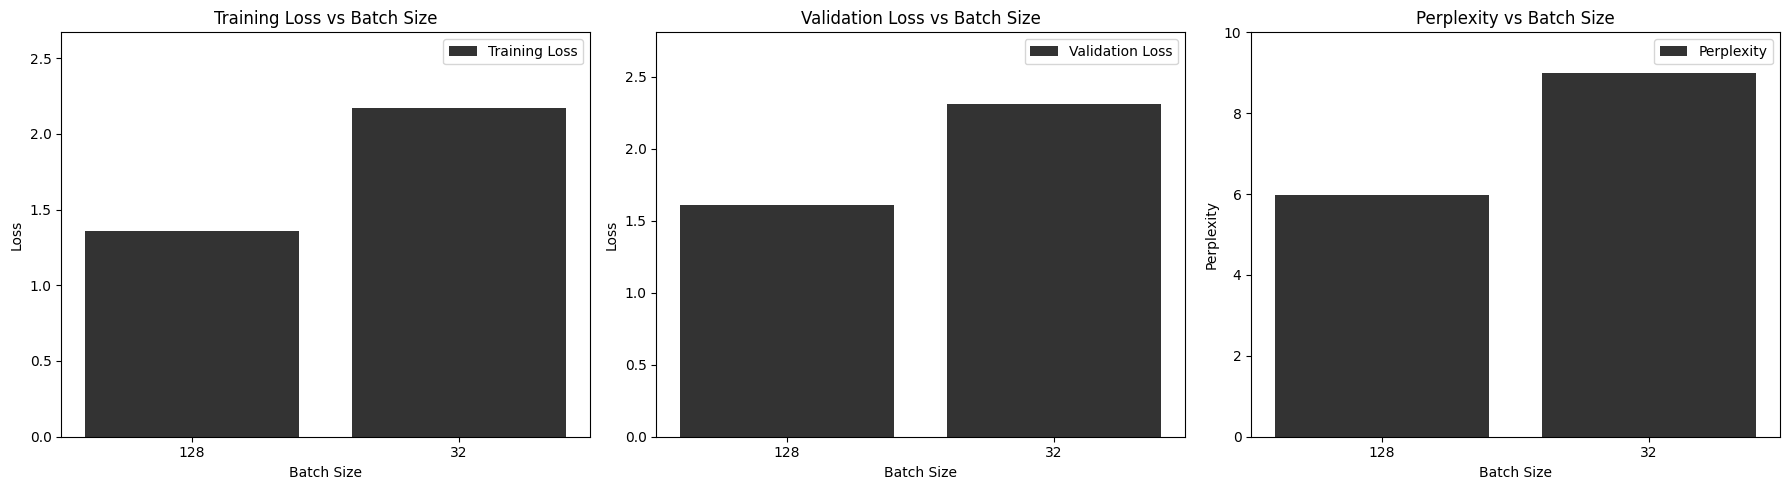
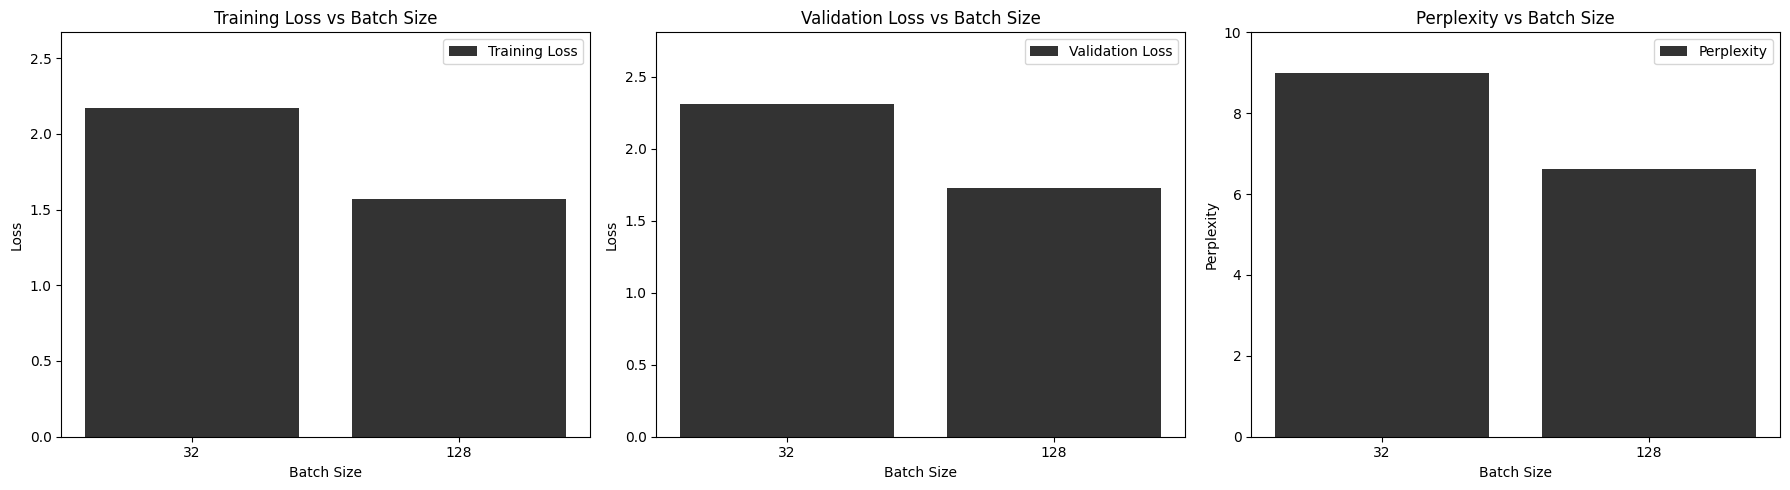
Commit

diff --git a/Documentation/experiments.md b/Documentation/experiments.md
@@ -1,7 +1,9 @@
 
-## Results and Experiments
+## **Results and Experiments**
 
-The goal of this section is to test out different parameters to find the best parameters for the model, also to see the effect of changing some of them and their effects on train, validation and test results. 
+The goal of this section is to test out different hyper-parameters to find the best parameters for the model. Those experiments also allow to see their effects on train, validation and test results. 
+
+---
 
 ### **Table of Contents**
 
@@ -15,7 +17,7 @@ The goal of this section is to test out different parameters to find the best pa
 
 ### **1. Best Parameters**
 
----
+The best val / train loss were achieved with the following:
 
 
 | **Parameter**             | **Value** |
@@ -31,6 +33,7 @@ The goal of this section is to test out different parameters to find the best pa
 | **Dropout rate**           | 0.2       |
 
 
+
 **Results at Optimal Point**
 
 - **Training Loss**: 1.22
@@ -38,14 +41,18 @@ The goal of this section is to test out different parameters to find the best pa
 - **Perplexity**: 5.52
 - **Training Time (min)**: 18  
 
+
 **Training and Validation Loss Plot**
 
-<img src="./images/results/best_param_model_1400.png" alt="Architecture Overview" width="70%">
+<img src="./images/results/best_param_model_1400.png" alt="Architecture Overview" width="60%">
 
 
 **Output generated text** The rest can be found [here](../Documentation/generated_text.txt)
 
-**Input:** "O God, O God!"
+**Input sequence**
+```
+O God, O God!
+```
 
 **Generated Text:**
 ```
@@ -70,14 +77,14 @@ Let's so return blind him your day to-day.
 
 HASTINGS:
 Good's duke much forth, as I would say take there is.
-
+...
 ```
 ---
 
 
 ### **2. Regularization Techniques**
 
-Using the following changed parameters (maximum iterations = 600), we just add gradient clipping (max_norm=1) and scheduler.
+Using the following changed parameter (maximum iterations = 600), we just add gradient clipping (max_norm=1) and scheduler.
 
 **Training and Validation Loss Plot**
 
@@ -108,10 +115,10 @@ Using the following changed parameters (maximum iterations = 600), we just add g
 
 **Loss (validation and training) plot**
 
-<img src="./images/results/6000_iters.png" alt="Architecture Overview" width="70%">
+<img src="./images/results/6000_iters.png" alt="Architecture Overview" width="60%">
 
 
-The training loss decreases steadily from **4.37** to **0.058**, showing that it fits the training data. However, the validation loss, plateaus around **1.65** before rising to **3.83**, indicating overfitting as the model begins to memorize the training data and fails to generalize. When the validation loss plateaus, it reflects the model's optimal performance for the given setup, and further training risks overfitting. Stopping at this point ensures good results and captures the essential patterns in the data. This is why we added the line that shows the optimal number of eval iterations for our model, set at 1400 iterations. The lowest training loss is 0.05, lowest validation loss 1.65, perplexity 7.08 and training time 5 hours. 
+**Results:** The training loss decreases steadily from **4.37** to **0.058**, showing that it fits the training data. However, the validation loss, plateaus around **1.65** before rising to **3.83**, indicating overfitting as the model begins to memorize the training data and fails to generalize. When the validation loss plateaus, it reflects the model's optimal performance for the given setup, and further training risks overfitting. Stopping at this point ensures good results and captures the essential patterns in the data. This is why we added the line that shows the optimal number of eval iterations for our model, set at 1400 iterations. The lowest training loss is 0.05, lowest validation loss 1.65, perplexity 7.08 and training time 5 hours. 
 
 
 ### **4. Additional Experiments**
@@ -172,18 +179,12 @@ For this experiment, results are the following:
 
 
 **Experiment 2: Batch Size** 
-
 | **Batch Size** | **Training Loss** | **Validation Loss** | **Perplexity** | **Training Time (min)** | **GC / Cluster** |
 |------------------|-------------------|---------------------|---------------|-------------------------|------------------|
-| 128              | 1.36             | 1.61                 | 5.97 ± 1.2    | 9.90                    | Cluster          |
 | 32               | 2.17             | 2.31                 | 9.00 ± 1.7         | 5.78               | Cluster          |
+| 128              | 1.57             | 1.73                 |  6.62 ± 1.3    | 10.26                  | Cluster          |
 
 <img src="./images/results/batch_size.png" alt="Architecture Overview" width="100%">
-
-**Batch Size 128**:
-
-   - Lower training loss (**1.36**) and validation loss (**1.61**) compared to batch size 32
-   - Perplexity is significantly lower (**5.97**), showing better predictive quality.
 
 
 **Batch Size 32**:
@@ -191,10 +192,15 @@ For this experiment, results are the following:
    - Higher training loss (**2.17**) and validation loss (**2.31**) 
    - Perplexity is higher (**9.00**), reflecting reduced predictive performance.
 
-**Conclusion**:
+**Batch Size 128**:
 
-- **Batch Size 128** Better balance between training loss, validation loss, and generalization
+   - Lower training loss (**1.57**) and validation loss (**1.73**) compared to batch size 32
+   - Perplexity is significantly lower (**6.62**), showing better predictive quality.
+
+
+**Conclusion**:
 - **Batch Size 32** Faster but less stable training and generalization
+- **Batch Size 128** Better balance between training loss, validation loss, and generalization
 
 ---
 
@@ -202,13 +208,13 @@ For this experiment, results are the following:
 
 | **Num Layers** | **Training Loss** | **Validation Loss** | **Perplexity** | **Training Time (min)** | **GC / Cluster** |
 |------------------|-------------------|---------------------|---------------|-------------------------|------------------|
-| 6             | 1.36             | 1.61                 | 5.97 ± 1.2    | 9.90                    | Cluster          |
+| 6              | 1.57             | 1.73                 |  6.62 ± 1.3    | 10.26                  | Cluster          |
 | 12              | 1.85             | 2.05                | 7.05  ± 1.1          | 16.36                     | Cluster  |
 
 <img src="./images/results/num_layers.png" alt="Architecture Overview" width="100%">
 
 **6 Layers**:  
-- Training loss: **1.36**, Validation loss: **1.61**, Perplexity: **5.97**.  
+- Training loss: **1.57**, Validation loss: **1.73**, Perplexity: **6.62**.  
 - Better loss and perplexity with shorter training time.
 
 **12 Layers**:  
@@ -229,14 +235,14 @@ This experiment investigates the effect of different dropout rates on model perf
 
 | **Embedding Dim** | **Training Loss** | **Validation Loss** | **Perplexity** | **Training Time (min)** | **GC / Cluster** |
 |------------------|-------------------|---------------------|---------------|-------------------------|------------------|
-| 512             | 1.36             | 1.61                 | 5.97 ± 1.2    | 9.90                    | Cluster          |
+| 512              | 1.57             | 1.73                 |  6.62 ± 1.3    | 10.26                  | Cluster          |
 | 768              | 1.56             | 1.75                | 6.67 ± 1.2     | 18.5                     | Cluster  |
 
 <img src="./images/results/embed_dim.png" alt="Architecture Overview" width="100%">
 
 
 **512 Embed. Size**:  
-- Training loss: **1.36**, Validation loss: **1.61**, Perplexity: **5.97**.  
+- Training loss: **1.57**, Validation loss: **1.73**, Perplexity: **6.62**.  
 - Good balance of performance and training efficiency.
 
 **768 Embed Size**:  
@@ -254,23 +260,23 @@ This experiment investigates the effect of different number of heads on model pe
 
 | **Num Heads** | **Training Loss** | **Validation Loss** | **Perplexity** | **Training Time (min)** | **GC / Cluster** |
 |------------------|-------------------|---------------------|---------------|-------------------------|------------------|
-| 4             | 1.60             | 1.75                 | 6.62 ± 1.2    | 8.90                    | Cluster          |
-| 8              | 1.36             | 1.61                 | 5.97 ± 1.2    | 9.90                    | Cluster          |
+| 4             | 1.60             | 1.75                 | 6.60 ± 1.2    | 8.90                    | Cluster          |
+| 8             | 1.57             | 1.73                 |  6.62 ± 1.3    | 10.26                  | Cluster          |
 
 <img src="./images/results/num_heads.png" alt="Architecture Overview" width="100%">
 
 **4 Heads**:  
-- Training loss: **1.60**, Validation loss: **1.75**, Perplexity: **6.62**.  
+- Training loss: **1.60**, Validation loss: **1.75**, Perplexity: **6.60**.  
 - Slightly higher loss and perplexity compared to 8 heads.
 
 **8 Heads**:  
-- Training loss: **1.36**, Validation loss: **1.61**, Perplexity: **5.97**.  
-- Slightly better loss and perplexity with reduced training time.
+- Training loss: **1.57**, Validation loss: **1.73**, Perplexity: **5.62**.  
+- Slightly better loss and perplexity 
 
 **Conclusion**:  
-- Increasing the number of heads (8) improves performance slightly while reducing training time.  
-- 8 heads provide better generalization and efficiency compared to 4 heads.
+- Increasing the number of heads (8) improves performance slightly.  
 
+--- 
 
 ### **5. Other Experiments**
 

diff --git a/readme.md b/readme.md
@@ -1,22 +1,21 @@
 ## **Small Language Model: Decoder Architecture with Shakespeare Dataset**
 
-The goal of this project is to implement a transformer-based, character-level language model (GPT-like) and train it on the Shakespeare dataset. 
-
-
-## **Overview**
-
-The goal is to evaluate the performance of a decoder architecture on character-level tokenized text from Shakespeare's works. Configurations for running the model are provided for both **Google Colab** and a **cluster environment**.
-
-For detailed documentation about the Transformer Decoder Architecture and a step-by-step visual illustration, please check the [Transformer documentation](https://alexerne-git.github.io/TransformerSmallDecoder/).
+The **goal** of this project is to implement a **transformer-based, character-level language model (GPT-like)** and train it on the **Shakespeare dataset**. Configurations for running the model are provided for both **Google Colab** and a **Cluster environment**.
+For detailed documentation about the Transformer Decoder Architecture and a step-by-step visual illustration, please check the [Transformer Decoder documentation](https://alexerne-git.github.io/TransformerSmallDecoder/).
 
 ---
 
-## **Expected Results**
+### **1. Expected Results:**
 
-The model should generate a shakespearean text as shown below:
+The model should generate a Shakespearean text as shown below:
+
+**Input Sequence:**
+```
+O God, O God!
+```
+**Generated Text:**
 
 ```
-Generated Text:
 O God, O God!
 
 GLOUCESTER:
@@ -43,12 +42,14 @@ For I may pay Bolingbroke it at with him.
 
 ```
 
-> Note: When prompting the text and asking ChatGPT the style of the text we got this answer: "This text resembles a pseudo-Shakespearean style, imitating the structure and diction of Elizabethan English but with nonsensical or fabricated language." - close enough considering our GPT has only about 19 million parameters (compared to 175 Billion for GPT-3).
+> **Note:** When prompting the text and asking ChatGPT the style of the text we got this answer: *"This text resembles a pseudo-Shakespearean style, imitating the structure and diction of Elizabethan English but with nonsensical or fabricated language."* - close enough considering our GPT has only about 19 million parameters (compared to 175 Billion for GPT-3).
 
 
+----
+
+### **2. Training, Evaluation, Experiments:**
 
 The best parameters used for the model were the followings:
-
 
 | **Parameter**             | **Value** |
 |----------------------------|-----------|
@@ -62,8 +63,10 @@ The best parameters used for the model were the followings:
 | **Number of layers (n_layer)**| 6        |
 | **Dropout rate**           | 0.2       |
 
+---
 
-**Results at Optimal Point**
+
+**Results at Optimal Point:**
 
 - **Training Loss**: 1.22
 - **Validation Loss**: 1.62
@@ -71,13 +74,17 @@ The best parameters used for the model were the followings:
 - **Training Time (min)**: 18  
 
 
+**Experiments** Detailed results and experiments on different parameters can be found [here](./Documentation/experiments.md).
 
-## **Setup Instructions**
+**Pytorch functions** A Notebook is provided that computes formulas used in the code with simplified examples, to understand how the pytorch functions work, this can be found on [this Notebook](./Documentation/pytorch_notebook.ipynb)
 
-### **Accessing the Code**
+----
 
+### **3. Setup Instructions:**
 
-### **Running on Google Colab**
+Both codes for Google Colab and the Cluster can be found in [this folder](./Code/readme.md)
+
+#### **Running on Google Colab**
 1. Open [this Google Colab notebook](./Code/google_colab_code.ipynb).
 2. Upload the [Shakespeare dataset](./Data/dataset.txt)
 3. Run the cells to install dependencies, train, and evaluate the model.
@@ -85,7 +92,3 @@ The best parameters used for the model were the followings:
 ### **Running on a Cluster**
 1. Follow the instructions in the [Cluster Folder](./Code/Cluster/readme.md)
 ---
-
-### **Experiments** 
-
-Detailed results and experiments on different parameters can be found [here](./Documentation/experiments.md).

diff --git a/Code/readme.md b/Code/readme.md
@@ -1,6 +1,6 @@
 
 
-## Running the code:
+## **Running the code:**
 
 To run the code, you can upload the **google_colab_code.ipynb** onto google colab and run using the GPU, below are the running time for the same parameters used for the experiments (CF readme).
 
@@ -8,7 +8,7 @@ To run the code, you can upload the **google_colab_code.ipynb** onto google cola
 - **Val Train:** 1.57
 - **Val Loss:** 1.73
 - **Training Time:** 10.26
-- **Perplexity:** 6.62 +- 1.3
+- **Perplexity:** 6.62 ± 1.3
 
 | **GPU/CPU**             | **Training Time (minutes)**                   | **GPU RAM** |
 |----------------------------|-----------------------------------|-----------|
@@ -17,11 +17,13 @@ To run the code, you can upload the **google_colab_code.ipynb** onto google cola
 | **L4 GPU**                  | 7.31                                | 4.2/22.5       |
 | **T4 GPU**                  | 14.16                          | 4.4/15 Gb         |
 
-## Code structure for training, validation and test:
+---
+
+## **Code structure for training, validation and test:**
 
 ### 1. **Data Preparation**
 - **Train/Test/Validation Split**: The dataset is split into **80% training**, **10% validation**, and **10% test**.
-- **Character Encoding**: Text is encoded into integers using a character-to-integer mapping, and the dataset is tokenized for training.
+- **Character Encoding**: Text is encoded into integers using a character-to-integer mapping
 
 ```
 train_ratio, val_ratio, test_ratio = 0.8, 0.1, 0.1
@@ -57,8 +59,7 @@ def get_sliding_window_batch(dataset, step_size):
 ### 3. **Evaluation**
 - **Metric - Perplexity**: 
   - The model is evaluated on the test dataset by computing the average loss for non-overlapping windows of `block_size`.
-  - Perplexity is calculated as the exponential of the average loss, representing how well the model predicts the test data (lower perplexity is better).
-
+  - Perplexity is calculated as the exponential of the average loss, representing how well the model predicts the test data
 ```
 window_losses = []
 
@@ -79,7 +80,7 @@ perplexity_std = math.exp(std_test_loss)
 print(f"Test Perplexity: {perplexity:.3f} ± {perplexity_std:.3f}")
 ```
 
-### References for the code (the two references are tutorials)
+### References for the code (Detailed tutorials)
 
 - [Let's build GPT: from scratch, in code, spelled out.](https://www.youtube.com/watch?v=kCc8FmEb1nY)
 - [ Create a Large Language Model from Scratch with Python – Tutorial ](https://www.youtube.com/watch?v=UU1WVnMk4E8&t=8658s)

diff --git a/Code/Cluster/readme.md b/Code/Cluster/readme.md
@@ -1,8 +1,8 @@
 
-## Running the code on a Cluster
+## **Running the code on a Cluster**
 
 
-## Step 1: Create Project Structure
+### **Step 1: Create Project Structure:**
 
 1. **Set up directories:**
    ```bash
@@ -27,7 +27,7 @@
 
 ---
 
-## Step 2: Verify and Install Libraries
+### **Step 2: Verify and Install Libraries:**
 
 1. **Create a Conda environment:**
    ```bash
@@ -66,7 +66,7 @@
 
 ---
 
-## Step 3: Prepare the Job Submission Script
+### **Step 3: Prepare the Job Submission Script:**
 
 1. **Create and edit `job.sh`:**
    ```bash
@@ -97,7 +97,7 @@
 
 ---
 
-## Step 4: Run the Job
+### **Step 4: Run the Job:**
 
 1. **Submit the job to the cluster:**
    ```bash
